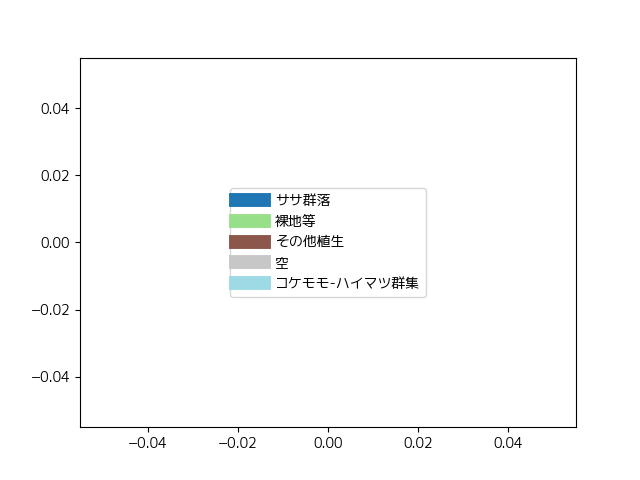
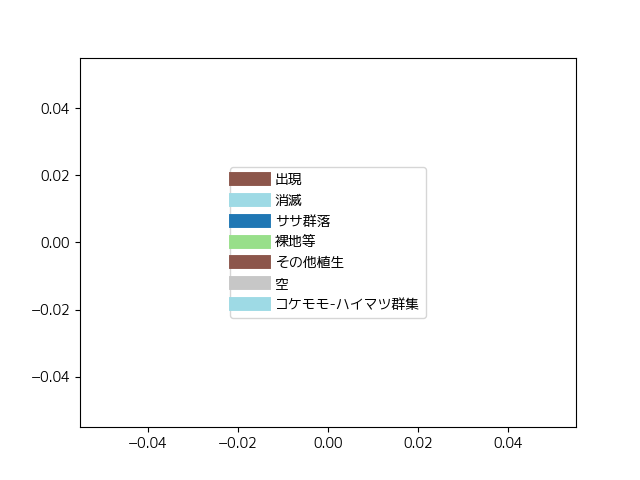
Added PAC

Changed region(s): [[0.3438, 0.3438, 0.6562, 0.6562]]

diff --git a/run_pac.py b/run_pac.py
@@ -1,0 +1,45 @@
+from scripts.pac import PAC
+pac = PAC("data/train4/patches9x9", "data/train4/2010/labels", 200,  shrink = 5)
+pac.train(20)
+res_2010_pac = pac.draw("data/train4/2010/images_2010_R", "results/pac_9x9_ep20_R2_2010.png", (9,9), 5000)
+res_2020_pac = pac.draw("data/train4/2020/images_2020_R", "results/pac_9x9_ep20_R2_2020.png", (9,9), 5000)
+
+import numpy as np
+import cv2
+from matplotlib import pyplot as plt
+import pylab as pl
+
+np.save("results/res2010_pac_9x9_ep20.npy", res_2010_pac)
+np.save("results/res2020_pac_9x9_ep20.npy", res_2020_pac)
+
+res2010 = np.load("results/res2010_cnn_9x9_R3.npy")
+res2020 = np.load("results/res2020_cnn_9x9_R3.npy") 
+
+
+img2010 = cv2.imread("data/pictures/mrd_085_eos_vis_20101023_1200.png")[:,:,0]
+img2020 = cv2.imread("data/pictures/mrd_085_eos_vis_20201021_1205.png")[:,:,0]
+mask = np.logical_and(img2010!=0, img2020!=0).astype(int)
+
+diff = np.zeros(res2010.shape)
+diff[np.logical_and(res2010!=4, res_2010_pac==4)] = 1 # ハイマツ以外 -> ハイマツ
+diff[np.logical_and(res2010==4, res_2010_pac!=4)] = 2 # ハイマツ -> ハイマツ以外
+cmap = plt.get_cmap("tab20", 3)
+diff = diff * mask
+plt.imsave("results/diff_haimatsu_cnn2pac.png", diff, cmap = cmap)
+
+diff_labels = [
+    "出現",
+    "消滅"
+]
+pl.cla()
+for i, l in zip(range(2), diff_labels):
+    color = cmap(i+1)
+    pl.plot(0, 0, "-", c = color, label = l, linewidth = 10)
+pl.legend(loc = "center", prop = {"family": "MigMix 1P"})
+pl.savefig("results/diff_legend.png")
+
+diff = np.zeros(res2010.shape)
+diff[np.logical_and(res2010!=0, res_2010_pac==0)] = 1 # ササ以外 -> ササ
+diff[np.logical_and(res2010==0, res_2010_pac!=0)] = 2 # ササ -> ササ以外 
+diff = diff * mask
+plt.imsave("results/diff_sasa_cnn2pac.png", diff, cmap = cmap)

diff --git a/run_cnnlstm.py b/run_cnnlstm.py
@@ -1,14 +1,14 @@
 from scripts.utils import set_patches
 from scripts.cnn_lstm import CNNLSTM
 import tensorboardX
-set_patches("data/train4/2010/labels", "data/train4/2010/images_2010_R", "data/train4/patches9x9/", (9,9), batch_size=50, unlabelled=False, shrink=5)
-set_patches("data/train4/2010/labels", "data/train4/2020/images_2020_R", "data/train4/patches9x9/", (9,9), batch_size=50, unlabelled=False, shrink=5)
+# set_patches("data/train4/2010/labels", "data/train4/2010/images_2010_R", "data/train4/patches9x9/", (9,9), batch_size=50, unlabelled=False, shrink=5)
+# set_patches("data/train4/2010/labels", "data/train4/2020/images_2020_R", "data/train4/patches9x9/", (9,9), batch_size=50, unlabelled=False, shrink=5)
 
 lstm = CNNLSTM("data/train4/patches9x9", "data/train4/2010/labels", (9,9), 200, device="cuda", shrink = 5)
 lstm.draw_legend("results/legend.png")
 lstm.draw_teacher("results/teacher_2010_shrink0.png", (5616,3744))
 
-lstm.train(100, "cnn_lstm9x9")
+lstm.train(200, "cnn_lstm9x9")
 
 res2010, _ = lstm.draw("data/train4/2010/images_2010_R", "results/cnn_9x9_R2_2010.png", (9,9), 50000)
 res2020, _ = lstm.draw("data/train4/2020/images_2020_R", "results/cnn_9x9_R2_2020.png", (9,9), 50000)
@@ -20,8 +20,8 @@ import numpy as np
 from matplotlib import pyplot as plt
 import pylab as pl
 import cv2
-np.save("results/res2010_cnn_9x9_R2.npy", res2010)
-np.save("results/res2020_cnn_9x9_R2.npy", res2020)
+np.save("results/res2010_cnn_9x9_R3.npy", res2010)
+np.save("results/res2020_cnn_9x9_R3.npy", res2020)
 
 lstm.labels
 lstm.class_to_idx

diff --git a/scripts/cnn_lstm.py b/scripts/cnn_lstm.py
@@ -31,11 +31,11 @@ class CRNNClassifier(nn.Module):
         self.h_dim = int((conv_out_shape + y_dim) / 2)
         self.lstm = nn.LSTM(conv_out_shape, self.h_dim, batch_first=True)
         self.bn1 = nn.BatchNorm1d(self.h_dim)
-        self.do1 = nn.Dropout(0.4)
+        self.do1 = nn.Dropout(0.0)
         self.fc1 = nn.Linear(self.h_dim, self.h_dim)
         self.prelu2 = nn.PReLU()
         self.bn2 = nn.BatchNorm1d(self.h_dim)
-        self.do2 = nn.Dropout(0.4)
+        self.do2 = nn.Dropout(0.0)
         self.fc2 = nn.Linear(self.h_dim, y_dim)
 
     def forward(self, x):
@@ -72,7 +72,7 @@ class CNNLSTM():
         self.y_dim = len(self.classes)
         self.tf_train = transforms.Compose([
             AsImage(self.x_shape[1:4])#,
-            #transforms.RandomAffine((0,360), translate=(0.1,0.1), scale=(0.8, 1.1), shear=(30,30))
+            #transforms.ColorJitter(brightness=0.3, contrast=0.3, saturation=0.2)
         ])
         self.tf_valid = transforms.Compose([
             AsImage(self.x_shape[1:4])

diff --git a/scripts/pac.py b/scripts/pac.py
@@ -11,7 +11,6 @@ import numpy as np
 import matplotlib.pyplot as plt
 from sklearn.model_selection import train_test_split
 from sklearn.linear_model import PassiveAggressiveClassifier
-from sklearn.decomposition import PCA
 
 
 def cf_labelled(batch):
@@ -24,7 +23,7 @@ def cf_labelled(batch):
     y = np.asarray(y)
     return x, y
 
-class SVM():
+class PAC():
     def __init__(self, data_dir, labels_dir, batch_size, num_workers=10, label="all", shrink=0.0):
         self.classes = [Path(n).name for n in glob(data_dir + "/labelled/*")]
         _, labels = read_sses(labels_dir, (9999,9999), label=label)
